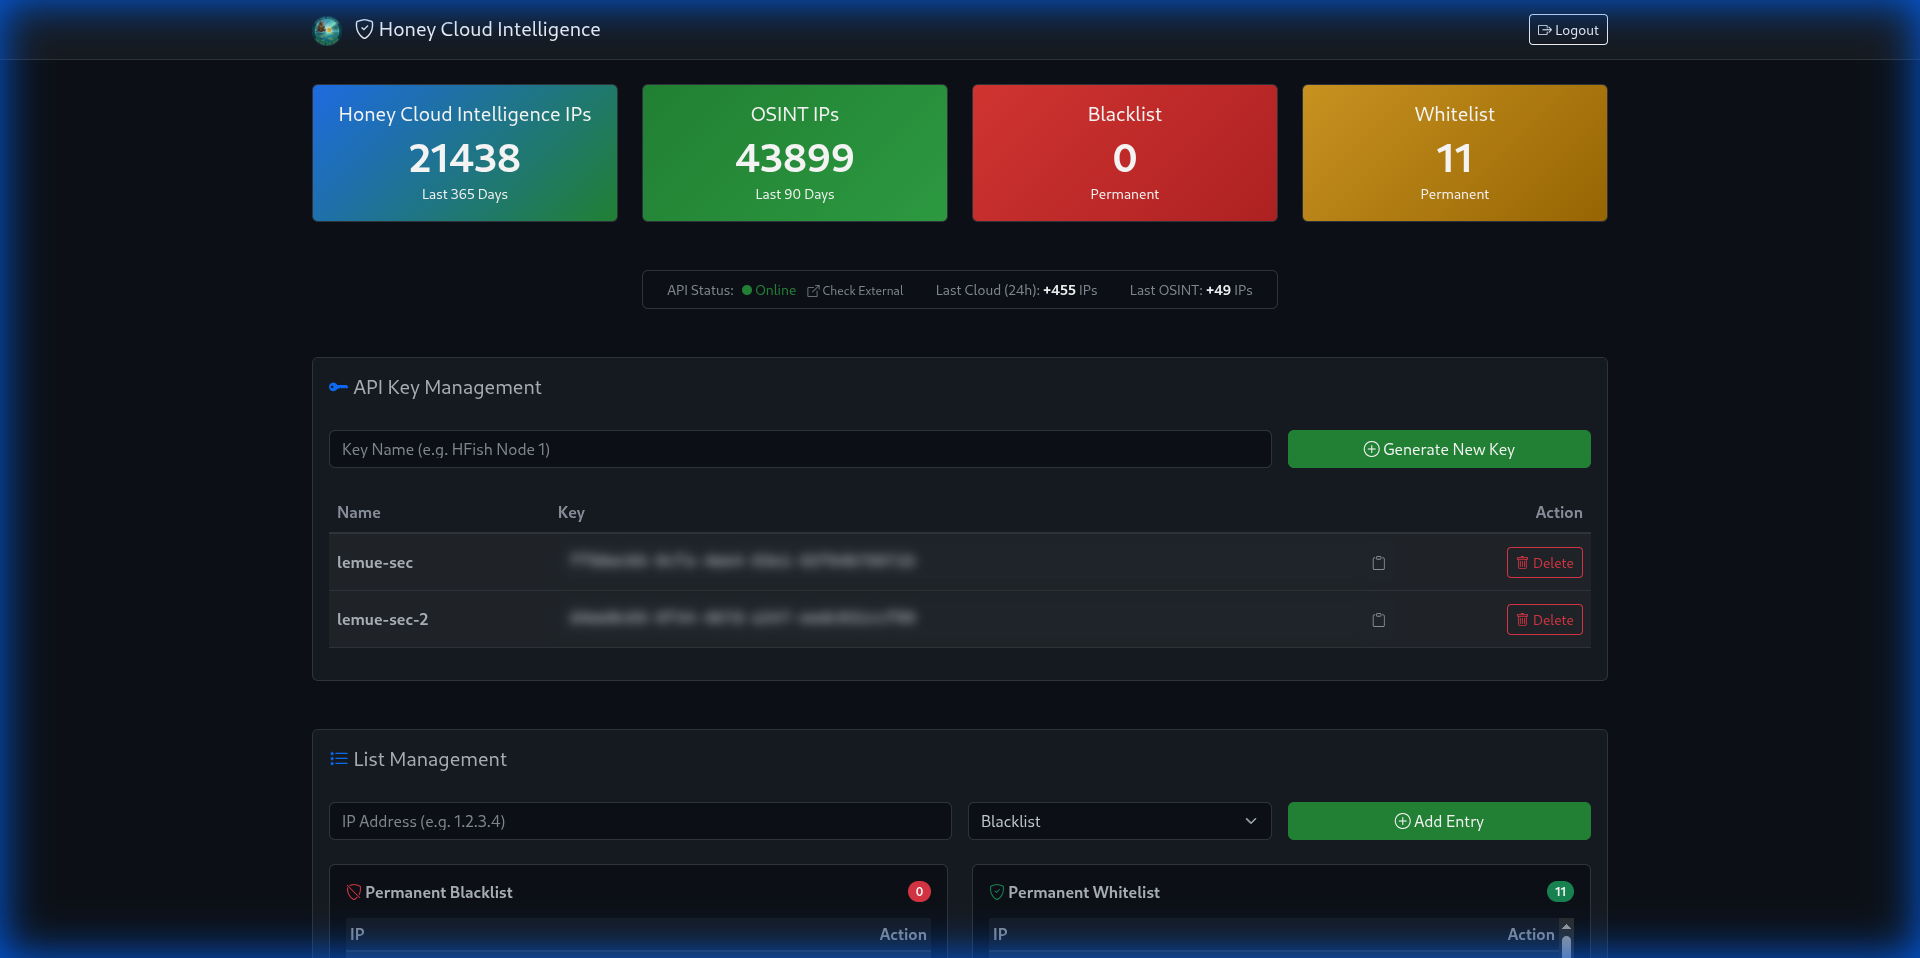
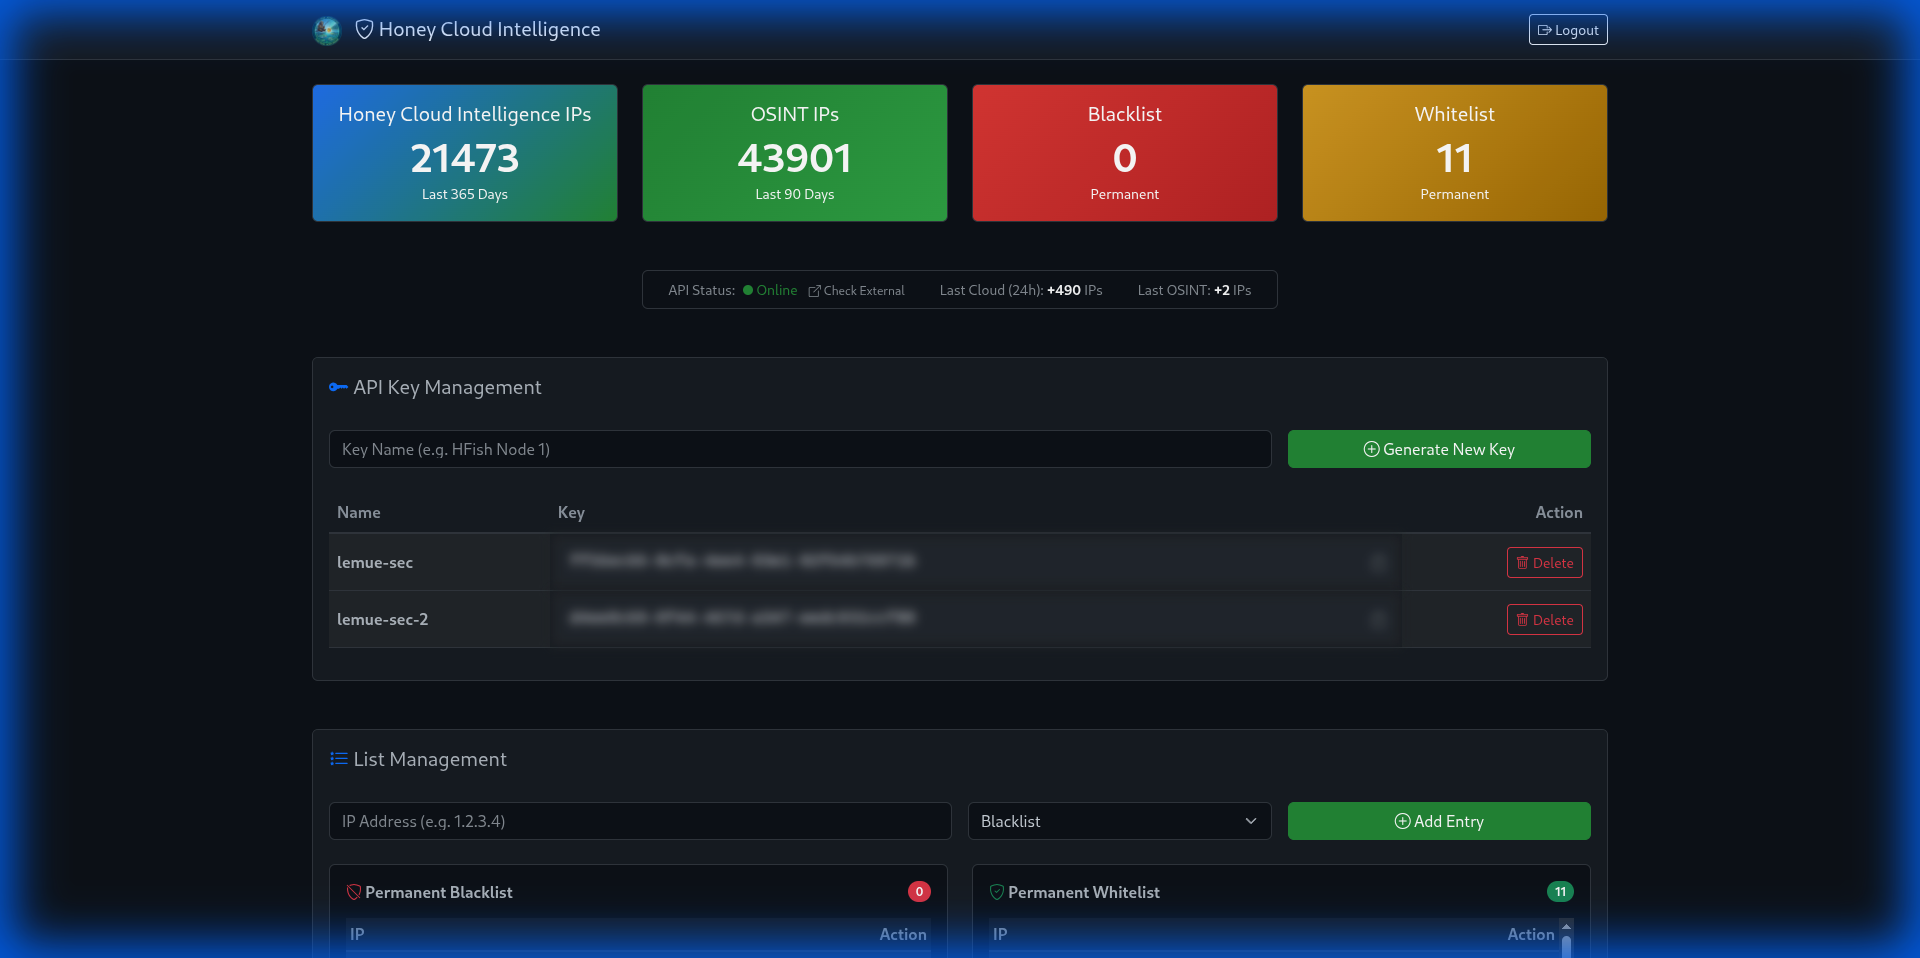
release: v1.2.2 - final documentation polish and fresh dashboard preview

diff --git a/app/main.py b/app/main.py
@@ -26,7 +26,7 @@ REDIS_CLIENT = redis.from_url(REDIS_URL, decode_responses=True)
 ADMIN_PASSWORD = os.getenv("ADMIN_PASSWORD", "admin")
 SESSION_SECRET_KEY = os.getenv("SESSION_SECRET_KEY", "change-me-at-all-costs")
 
-app = FastAPI(title="Threat Intelligence Bridge", version="1.2.1")
+app = FastAPI(title="Threat Intelligence Bridge", version="1.2.2")
 app.add_middleware(SessionMiddleware, secret_key=SESSION_SECRET_KEY)
 
 @app.get("/health")

diff --git a/README_UA.md b/README_UA.md
@@ -5,7 +5,7 @@
   <h1>Honey Cloud Intelligence</h1>
   <p><strong>Високопродуктивний міст та агрегатор розвідки загроз</strong></p>
 
-  [![Version](https://img.shields.io/badge/version-v1.2.1-blue?style=for-the-badge&logo=none)](https://github.com/lemueIO/honey-api/releases/tag/v1.2.1)
+  [![Version](https://img.shields.io/badge/version-v1.2.2-blue?style=for-the-badge&logo=none)](https://github.com/lemueIO/honey-api/releases/tag/v1.2.2)
   [![License](https://img.shields.io/badge/license-MIT-green?style=for-the-badge&logo=none)](LICENSE)
   [![Python](https://img.shields.io/badge/python-3.9%2B-blue?style=for-the-badge&logo=python&logoColor=white)](https://www.python.org/)
   [![Docker](https://img.shields.io/badge/docker-enabled-blue?style=for-the-badge&logo=docker&logoColor=white)](https://www.docker.com/)

diff --git a/README.md b/README.md
@@ -5,7 +5,7 @@
   <h1>Honey Cloud Intelligence</h1>
   <p><strong>High-Performance Threat Intelligence Bridge & Aggregator</strong></p>
 
-  [![Version](https://img.shields.io/badge/version-v1.2.1-blue?style=for-the-badge&logo=none)](https://github.com/lemueIO/honey-api/releases/tag/v1.2.1)
+  [![Version](https://img.shields.io/badge/version-v1.2.2-blue?style=for-the-badge&logo=none)](https://github.com/lemueIO/honey-api/releases/tag/v1.2.2)
   [![License](https://img.shields.io/badge/license-MIT-green?style=for-the-badge&logo=none)](LICENSE)
   [![Python](https://img.shields.io/badge/python-3.9%2B-blue?style=for-the-badge&logo=python&logoColor=white)](https://www.python.org/)
   [![Docker](https://img.shields.io/badge/docker-enabled-blue?style=for-the-badge&logo=docker&logoColor=white)](https://www.docker.com/)

diff --git a/README_DE.md b/README_DE.md
@@ -5,7 +5,7 @@
   <h1>Honey Cloud Intelligence</h1>
   <p><strong>Hochperformante Threat Intelligence Bridge & Aggregator</strong></p>
 
-  [![Version](https://img.shields.io/badge/version-v1.2.1-blue?style=for-the-badge&logo=none)](https://github.com/lemueIO/honey-api/releases/tag/v1.2.1)
+  [![Version](https://img.shields.io/badge/version-v1.2.2-blue?style=for-the-badge&logo=none)](https://github.com/lemueIO/honey-api/releases/tag/v1.2.2)
   [![License](https://img.shields.io/badge/license-MIT-green?style=for-the-badge&logo=none)](LICENSE)
   [![Python](https://img.shields.io/badge/python-3.9%2B-blue?style=for-the-badge&logo=python&logoColor=white)](https://www.python.org/)
   [![Docker](https://img.shields.io/badge/docker-enabled-blue?style=for-the-badge&logo=docker&logoColor=white)](https://www.docker.com/)

diff --git a/README_DE2.md b/README_DE2.md
@@ -5,7 +5,7 @@
   <h1>Honey Cloud Intelligence</h1>
   <p><strong>Schnelle Daten-Brücke für Sicherheit</strong></p>
 
-  [![Version](https://img.shields.io/badge/version-v1.2.1-blue?style=for-the-badge&logo=none)](https://github.com/lemueIO/honey-api/releases/tag/v1.2.1)
+  [![Version](https://img.shields.io/badge/version-v1.2.2-blue?style=for-the-badge&logo=none)](https://github.com/lemueIO/honey-api/releases/tag/v1.2.2)
   [![License](https://img.shields.io/badge/license-MIT-green?style=for-the-badge&logo=none)](LICENSE)
   [![Python](https://img.shields.io/badge/python-3.9%2B-blue?style=for-the-badge&logo=python&logoColor=white)](https://www.python.org/)
   [![Docker](https://img.shields.io/badge/docker-enabled-blue?style=for-the-badge&logo=docker&logoColor=white)](https://www.docker.com/)

diff --git a/CHANGELOG.md b/CHANGELOG.md
@@ -2,6 +2,15 @@
 
 All notable changes to this project will be documented in this file.
 
+## [1.2.2] - 2026-01-09
+
+### Added
+- **Visuals**: Updated dashboard screenshot (`assets/dashboard_preview.png`) to reflect recent UI improvements and data state.
+
+### Changed
+- **Documentation**: Final polish of all documentation files, ensuring consistency and clarity across all supported languages.
+- **Versioning**: Officially bumped version to v1.2.2.
+
 ## [1.2.1] - 2026-01-09
 
 ### Added
